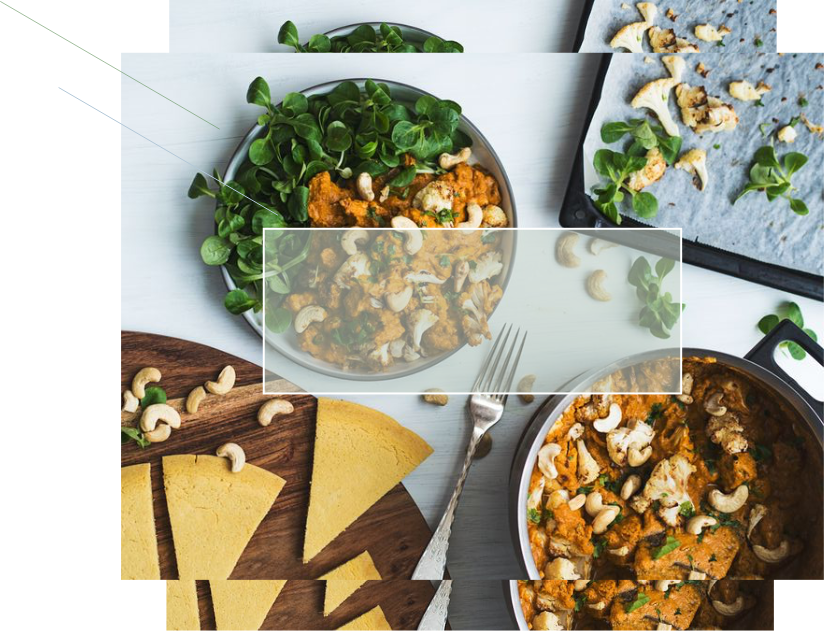
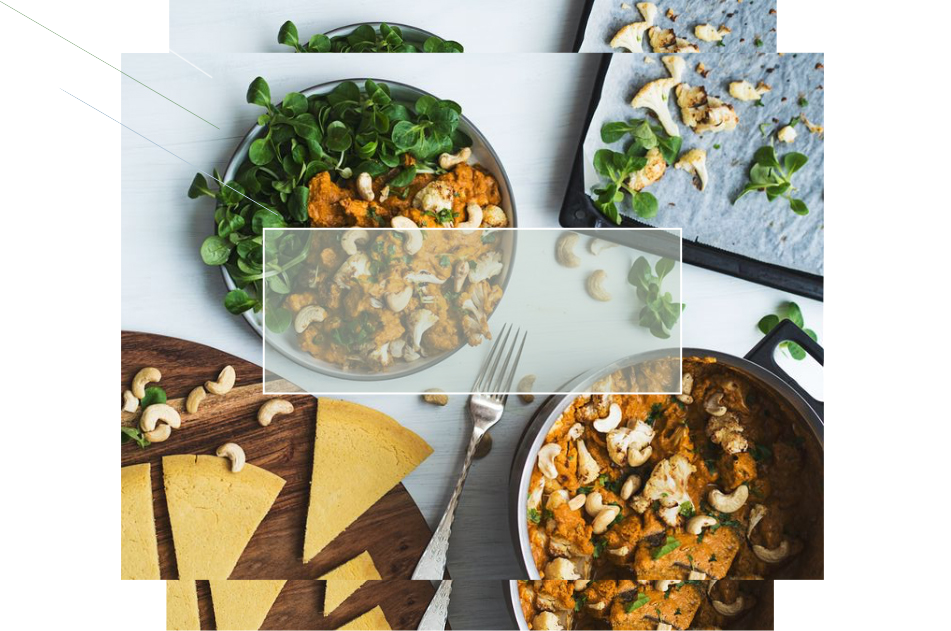
forside about

diff --git a/forside.html b/forside.html
@@ -43,38 +43,109 @@
 
     /*øverster del LOGO og frontbillede*/
 
+    .logo {
+        position: relative;
+
+    }
+
     .logo img {
+        display: block;
+        margin-left: auto;
+        margin-right: auto;
         width: 13%;
+        padding: 35px;
+    }
+
+    .frontBillede div h3 {
+        position: absolute;
+        top: 425px;
+        left: 650px;
+        font-size: 45px;
+        font-family: "Helvetica-Light";
+        letter-spacing: 1.3px;
+        color: white;
     }
 
     .frontBillede img {
-        width: 40%;
+        display: block;
+        margin-left: auto;
+        margin-right: auto;
+        width: 45%;
+    }
+
+
+    /*    BOOK styling*/
+
+    .bookBoks {
+        width: 200px;
+        background-color: white;
+        align-content: center;
+        margin: 0 auto;
+        letter-spacing: 1.3px;
+    }
+
+    .bookBoks h3 {
+        margin-top: 120px;
+        margin-bottom: 120px;
+
+        padding: 12px;
+        text-align: center;
+        font-family: "Helvetica-Light";
+        font-weight: lighter;
+        font-size: 22px;
+        color: #74523a;
+    }
+
+    /*    About styling*/
+    h4 {
+        margin-top: 100px;
+        font-size: 25px;
+        font-family: "Helvetica-Light";
+        font-weight: lighter;
+        text-align: center;
+        color: white;
+    }
+
+    .about {
+        display: flex;
+        font-size: 17px;
+        font-family: "Helvetica-Light";
+        font-weight: lighter;
+    }
+
+
+    .about p {
+        padding: 60px;
+        color: white;
     }
 </style>
 
 <body>
     <section id="forside">
-
         <div class="logo">
             <img src="billeder/logoMedNavn.svg">
         </div>
 
         <div class="frontBillede">
+            <div>
+                <h3>MENU</h3>
+            </div>
             <img src="billeder/frontBillede.png">
         </div>
 
-
         <div class="bookBoks">
-            <h3>Book</h3>
+            <h3>BOOK</h3>
         </div>
 
+        <h4>About</h4>
+
         <div class="about">
-            <h4>About</h4>
+
             <p>We go for wild, local, gluten-free, ethically sourced, seasonal and plant-based ingredients, that bring a little bit of nature in our busy lives.
             </p>
-            <p>we are a India restaurant that stands for healthy options, we love to take what nature is giving us. One of the main goals of the manifesto is to work in close dialogue with local producers, and to innovate and improve the overall quality of our food
+            <p>we are a India restaurant that stands for healthy options, we love to take what nature is giving us. Overall quality of our food
             </p>
-            <p>Our food and cold-pressed juices are 100% organic, pure, fresh, and unpasteurized, leaving their nutritive power intact. Rise and Curry is based on the simple belief that food should be good for you, good for the planet, and delicious.
+            <p>Our food and cold-pressed juices are 100% organic. Rise and Curry is based on the simple belief that food should be good for you, good for the planet, and delicious.
             </p>
         </div>
 

diff --git a/style.css b/style.css
@@ -25,7 +25,8 @@
       font-size: 15px;
       text-align: center;
       font-family: "Helvetica-Light";
-      color: #8e7968;
+      font-weight: lighter;
+      color: #4a3320;
       margin: 15px;
       background-color: rgba(255, 255, 255, 0.44);
       padding: 10px;
